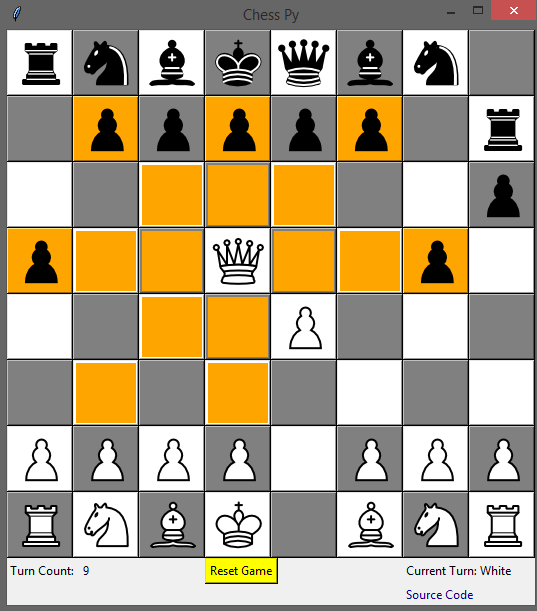
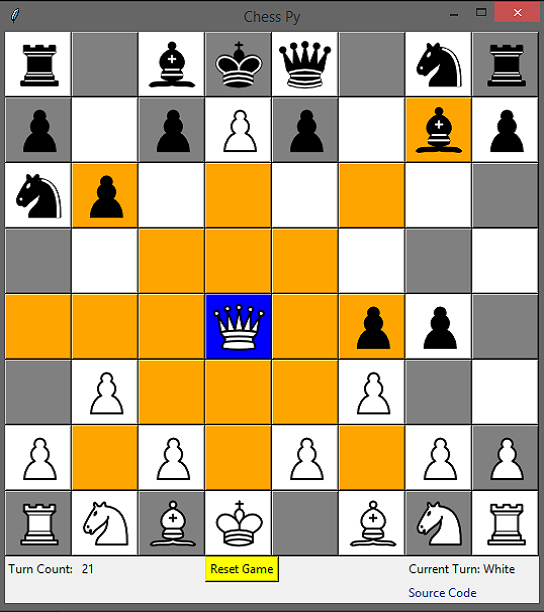
Fixed bug where unoccupied tiles looked weird when highlighted, added comments, and marked the clicked tile blue

diff --git a/chess.py b/chess.py
@@ -2,8 +2,9 @@ from tkinter import *
 from tkinter import messagebox
 import webbrowser
 
+#Class for managing an individual board tile, including the piece that may be on it..
 class Tile():
-	def __init__(self, row, col, clickmethod):
+	def __init__(self, row, col, clickmethod): #Creates tile.
 		self.row = row
 		self.col = col
 		if (row + col) % 2 == 0:
@@ -23,13 +24,14 @@ class Tile():
 		self.piecekind = None
 		self.piececolor = None
 		self.highlighted = False
+		self.sourcemark = False
 
-	def clear(self):
+	def clear(self): #Used to mark the tile as unoccupied.
 		self.piecekind = None
 		self.piececolor = None
 		self.button['image'] = self.blank[self.color]
 
-	def placePiece(self, color, kind, deprime=True):
+	def placePiece(self, color, kind, deprime=True): #Places a piece on the tile.
 		self.piececolor = color
 		self.piecekind = kind
 		if "pawn" not in kind: self.button['image'] = self.images[color+kind]
@@ -38,22 +40,28 @@ class Tile():
 			if deprime and ("prime" in kind):
 				self.piecekind = kind[:-5]
 			
-	def highlight(self):
+	def highlight(self): #Marks the tile as one of the possible destinations for a piece about to be moved.
 		if not self.highlighted:
 			self.highlighted = True
+			self.button['bg'] = 'orange'
 			if self.piecekind is None:
 				self.button['image'] = self.blank['orange']
-			else:
-				self.button['bg'] = 'orange'
 		else:
 			self.highlighted = False
+			self.button['bg'] = self.color
 			if self.piecekind is None:
 				self.button['image'] = self.blank[self.color]
-			else:
-				self.button['bg'] = self.color
 
-class Chess(Frame):
-	def __init__(self, master):
+	def sourcelight(self): #Marks the tile as the piece about to be moved, or a pawn about to be promoted.
+		if not self.sourcemark:
+			self.sourcemark = True
+			self.button['bg'] = 'blue'
+		else:
+			self.sourcemark = False
+			self.button['bg'] = self.color
+
+class Chess(Frame): #Manages the game/chessboard.
+	def __init__(self, master): #Creates the tiles and GUI.
 		self.tiles = {}
 		for i in range(1, 9):
 			for j in range(1, 9):
@@ -67,7 +75,7 @@ class Chess(Frame):
 		self.currentturn.set("Waiting to Start")
 		self.highlighted = []
 		self.source = None
-		self.state = 1 #1 for not playing, 2 for waiting for piece to move, 3 for waiting for destination
+		self.state = 1 #1 = game hasn't started. 2 = waiting for piece to move to be picked. 3 = waiting for destination tile. 4 = game has ended.
 
 		turnc = Frame(master)
 		Label(turnc, text="Turn Count: ", justify=LEFT).grid(row=0, column=0, sticky=W)
@@ -83,7 +91,7 @@ class Chess(Frame):
 		hyperlink.bind("<Button-1>", lambda x: webbrowser.open_new(r"https://github.com/aelna354/PyChess/"))
 		hyperlink.grid(row=10,column=7,columnspan=2, sticky=W)
 
-	def initBoard(self):
+	def initBoard(self): #Creates/resets the board.
 		for i in [3, 4, 5, 6]:
 			for j in range(1, 9):
 				self.tiles[i, j].clear()
@@ -104,7 +112,7 @@ class Chess(Frame):
 		self.tiles[8, 4].placePiece("white", "king")
 		self.tiles[8, 5].placePiece("white", "queen")
 
-	def initGame(self):
+	def initGame(self): #Starts/reset the game.
 		self.actionbutton['text'] = "Reset Game"
 		self.actionbutton['bg'] = 'yellow'
 		self.turn.set(1)
@@ -112,7 +120,7 @@ class Chess(Frame):
 		self.currentcolor = "white"
 		self.state = 2
 
-	def action(self):
+	def action(self): #The "Start Game"/"Restart Game" button.
 		if self.state == 1:
 			self.initGame()
 		else:
@@ -120,14 +128,13 @@ class Chess(Frame):
 				self.unhighlight()
 				self.initBoard()
 				self.initGame()
-				print(len(self.highlighted))
 
-	def unhighlight(self):
+	def unhighlight(self): #Unhighlights all highlighted tiles.
 		for i in self.highlighted:
 			self.tiles[i].highlight()
 		self.highlighted = []		
 
-	def click(self, p):
+	def click(self, p): #Event that occurs when a tile is clicked on.
 		if self.state == 2:
 			if p.piececolor != self.currentcolor:
 				return
@@ -135,12 +142,14 @@ class Chess(Frame):
 				self.tiles[i].highlight()
 				self.highlighted.append(i)
 			if len(self.highlighted) > 0:
+				p.sourcelight()
 				self.state = 3
 				self.source = p
 		
 		elif self.state == 3:
-			victory = False
 			if p.highlighted:
+				self.source.sourcelight()
+				victory = False
 				if p.piecekind == "king":
 					victory = True
 				p.placePiece(self.source.piececolor, self.source.piecekind)
@@ -150,6 +159,7 @@ class Chess(Frame):
 				self.state = 2
 				self.turn.set(self.turn.get() + 1)
 				self.unhighlight()
+
 				if self.currentcolor == "white":
 					self.currentcolor = "black"
 					self.currentturn.set("Current Turn: Black")
@@ -158,28 +168,30 @@ class Chess(Frame):
 					self.currentturn.set("Current Turn: White")
 
 				if (not victory) and ("pawn" in p.piecekind) and (not "prime" in p.piecekind) and (not (8 > p.row > 1)):
-					p.highlight()
+					p.sourcelight()
 					p.placePiece(p.piececolor, self.promotePawn())
-					p.highlight()
+					p.sourcelight()
 
 				if victory:
 					self.state = 4
 					self.currentturn.set("Winner: " + p.piececolor.capitalize())
-					messagebox.showinfo("Victory!", "The player controlling the " + p.piececolor.capitalize() + " pieces has won the game.")
+					messagebox.showinfo("Victory!", "Congratulations to the player controlling the " + p.piececolor.capitalize() + " pieces, they have won the game.")
 
 			elif p.piececolor == self.currentcolor:
 				self.unhighlight()
+				self.source.sourcelight()
 				for i in self.accessible(p):
 					self.tiles[i].highlight()
 					self.highlighted.append(i)
 				if len(self.highlighted) > 0:
 					self.source = p
+					self.source.sourcelight()
 				else:
 					self.state = 2
 
-	def promotePawn(self):
+	def promotePawn(self): #Creates the window asking the user what they would like to promote the pawn to.
 		kind = StringVar()
-		kind.set("queen") #if popup is closed
+		kind.set("queen")
 		popup = Toplevel()
 		popup.resizable(False, False)
 		popup.title('Promote Pawn')
@@ -187,13 +199,14 @@ class Chess(Frame):
 		opts = ["Queen", "Rook", "Bishop", "Knight"]
 		optsframe = Frame(popup)
 		for i in range(0, 4):
-			Button(optsframe, text=opts[i], command=lambda i=i:[kind.set(opts[i].lower()), popup.destroy()]).grid(row=0, column=i)
+			Radiobutton(optsframe, text=opts[i], variable=kind, value=opts[i].lower()).grid(row=0, column=i)
 		optsframe.grid(row=1, column=0)
+		Button(popup, text="Promote", command=popup.destroy).grid(row=2, column=0)
 		popup.grab_set()
 		popup.wait_window(popup)
 		return kind.get()
 		
-	def accessible(self, p):
+	def accessible(self, p): #Returns a list of all the tiles that can be reached from the provided tile, given the piece that is on it.
 		r = p.row
 		c = p.col
 		targets = []
@@ -226,7 +239,7 @@ class Chess(Frame):
 				if s == 2 and "prime" in p.piecekind:
 					if self.good(r+2, c) > 1:
 						targets.append((r+2, c))
-			else: #black pawn
+			else: #white pawn
 				s = self.good(r-1, c)
 				if s > 1:
 					targets.append((r-1, c))
@@ -238,6 +251,9 @@ class Chess(Frame):
 		if p.piecekind in "rook queen":
 			dirs = [True, True, True, True] #up, down, left, right
 			for i in range(1, 9):
+				#up is lower row. down is raise row. left is lower column. right is raise column.
+				#The idea here is that we are going through each direction sequentially; the first upwards, then second upwards, etc.
+				#Therefore, we can mark when we encounter an obstruction that we can't jump over, we mark that index as false.
 				for pair, index in zip([(r-i, c), (r+i, c), (r, c-i), (r, c+i)],
 									   [0, 1, 2, 3]):
 					if not dirs[index]:
@@ -254,6 +270,8 @@ class Chess(Frame):
 		if p.piecekind in "bishop queen":
 			dirs = [True, True, True, True] #upleft, upright, downleft, downright
 			for i in range(1, 9):
+				#upleft is lower row and column. upright is lower row, raise column.
+				#downleft is raise row, lower column. downright is raise row and column.
 				for pair, index in zip([(r-i, c-i), (r-i, c+i), (r+i, c-i), (r+i, c+i)],
 										[0, 1, 2, 3]):
 					if not dirs[index]:
@@ -269,6 +287,10 @@ class Chess(Frame):
 		return targets
 	
 	def good(self, r, c):
+		#If the provided tile doesn't exist (row or column is outside the allowed 1-8 range), returns 1.
+		#If the provided tile is the same color, return 1.
+		#If the provided tile is unoccupied, return 2.
+		#If it is occupied by the opposing color, return 3.
 		if not (9 > r > 0 and 9 > c > 0) or (self.tiles[(r, c)].piececolor == self.currentcolor):
 			return 1
 		elif self.tiles[(r, c)].piececolor is None:

diff --git a/README.MD b/README.MD
@@ -5,7 +5,7 @@ A chess game I made in Python 3 using Tkinter. After my successes in creating bo
 ![](photo1.png?raw=true)
 ![](photo2.png?raw=true)
 
-# Rules
+## Rules
 
 No AI, only 2 player mode. Game plays on a board of 8x8 tiles. One player controls white pieces, other black pieces, white piece player goes first. Game is played in turns; during each turn, the turn player must move exactly one of their pieces.
 
@@ -24,7 +24,7 @@ The objective of the game is to "checkmate" the opponent by removing their king 
 
 (Note: normally in chess, a player is not allowed to put themselves in a position where the opponent can checkmate them. This rule is not enforced in this implementation.)
 
-# Installation & Setup
+## Installation & Setup
 
 Install Python 3 if it is not already installed. Aftwards, download the [latest release](https://github.com/aelna354/PyChess/blob/master/release.zip?raw=true) and extract it to any folder on your computer. With Windows, simply double click the app.cmd file to start the game; for other OSs, run "python chess.py" in the command line.
 
